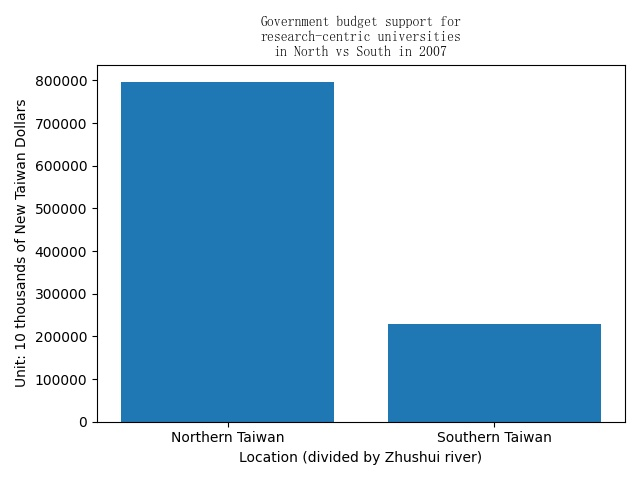
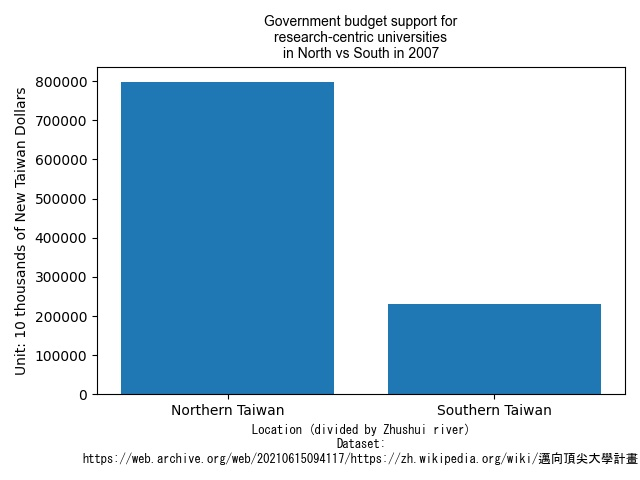
Committed 2021/07/10

diff --git a/The attainments and realizations of my dreams/Heading_to_the_top_universities_in_the_world_2007.py b/The attainments and realizations of my dreams/Heading_to_the_top_universities_in_the_world_2007.py
@@ -56,14 +56,22 @@ print(total_south_university)
 # The histogram of the data
 plt.bar(['Northern Taiwan', 'Southern Taiwan'], [total_north_university, total_south_university])
 
-plt.xlabel('Location (divided by Zhushui river)')
+plt.xlabel('Location (divided by Zhushui river)\n'
+           'Dataset:\nhttps://web.archive.org/web/20210615094117/'
+           'https://zh.wikipedia.org/wiki/邁向頂尖大學計畫',
+           fontproperties="MS Gothic", fontsize=9) #[1]
+
 plt.ylabel('Unit: 10 thousands of New Taiwan Dollars')
+
 plt.title('Government budget support for\n'
           'research-centric universities\n'
-          'in North vs South in 2007', fontproperties="SimSun") # [1]
+          'in North vs South in 2007', fontproperties="Arial")
 
 # Tweak spacing to prevent clipping of ylabel
 plt.tight_layout()
 
 plt.savefig('Total_difference_2007.jpg')
 plt.show()
+
+# References:
+# 1. https://stackoverflow.com/a/12444777/14900011
